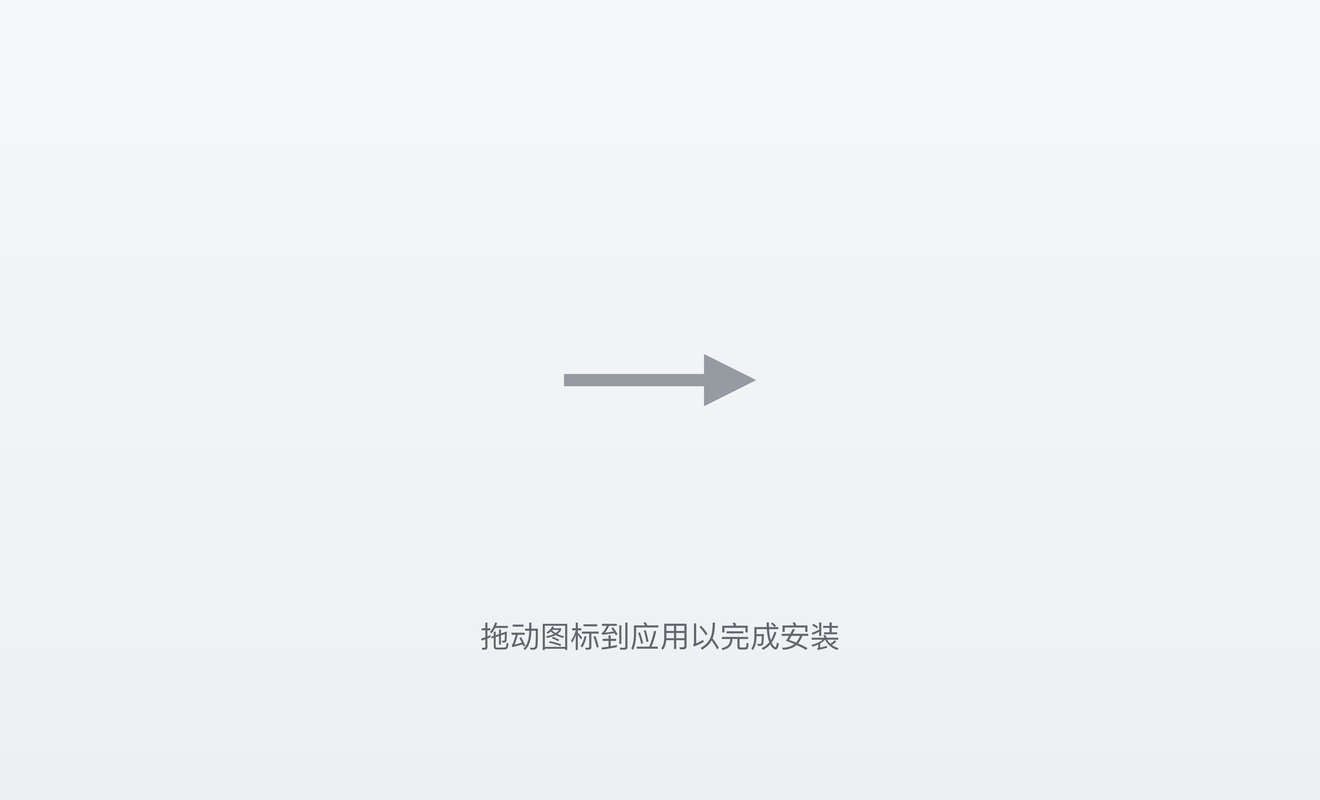
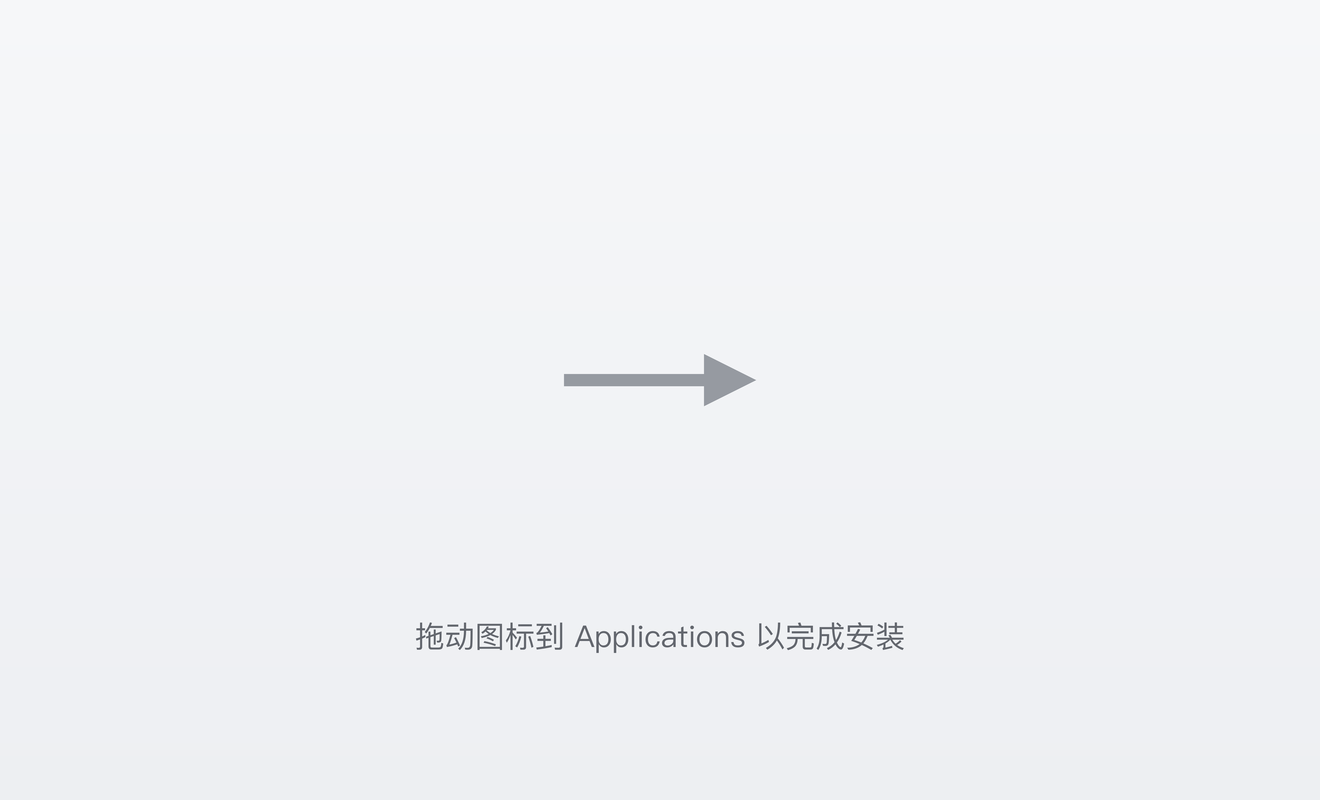
feat: 挂载卷直跑改硬阻断——弹「请先拖曳到 Applications」后退出；文案统一为 Applications
- main.cpp：/Volumes 挂载卷根（DMG 拖拽形态）或 /AppTranslocation 转位目录
  运行时弹提示后 return 0，不创建主窗口（Finder 双击无法拦截，进程起来后
  立即自断是应用侧最强阻断）；拆除 MainWindow 上一轮的软提示（提示后放行）
- MacInstallCheck 细化：挂载卷只拦 app 位于卷根的 DMG 形态，二级卷子目录
  （外置盘 Applications 文件夹）正经安装不误伤；test_macinstallcheck 补
  二级卷/卷路径两例（TDD：先 RED 再实现）
- 背景文案「拖动图标到应用以完成安装」→「拖动图标到 Applications 以完成
  安装」，与右侧替身图标的 Finder 显示名一致；重生成资产（文字重心 659/660）

Changed region(s): [[0.3106, 0.7812, 0.6833, 0.8125]]

diff --git a/src/ui/MainWindow.cpp b/src/ui/MainWindow.cpp
@@ -19,7 +19,6 @@
 #include "../core/DocxExporter.h"
 #include "../core/HtmlExporter.h"
 #include "../app/Application.h"
-#include "../app/MacInstallCheck.h"
 #include "../app/ThemeManager.h"
 #include "../app/SystemThemeWatcher.h"
 
@@ -41,8 +40,6 @@
 #include <QDropEvent>
 #include <QMimeData>
 #include <QKeySequence>
-#include <QTimer>
-#include <QSysInfo>
 
 // JS 单引号字符串字面量转义（路径等嵌入 runJavaScript；反斜杠/引号/换行——
 // Windows 路径 C:\Users\.. 的 \ 与含 ' 的 Unix 路径都会破坏字面量）
@@ -96,25 +93,6 @@ MainWindow::MainWindow(const QString &initialFile, QWidget *parent)
         onFileDoubleClicked(initialFile);
     } else {
         restoreSession();
-    }
-
-    // macOS：从 DMG 挂载卷/Gatekeeper 转位目录运行（未安装状态）——启动提示
-    // 拖入「应用程序」。硬阻断非 macOS 惯例，提示后仍可继续使用；但直接在
-    // 挂载卷内运行会让 Launch Services 登记多个副本（「打开方式」推荐列表
-    // 置灰的根因，见 CHANGELOG 0.16.1 升级提示）。运行时判 macOS 而非
-    // #ifdef：三平台都编译此段，避免留下只被 macOS CI 编译的死角
-    if (QSysInfo::productType() == QStringLiteral("macos")
-        && MacInstallCheck::isTransientLocation(QCoreApplication::applicationDirPath())) {
-        // singleShot(0)：等主窗口 show() 后再弹，对话框以可见窗口为锚居中
-        QTimer::singleShot(0, this, [this] {
-            QMessageBox box(QMessageBox::Information, tr("请先完成安装"),
-                tr("md-editor 正在从安装镜像（DMG）或临时目录运行，尚未安装到系统中。\n\n"
-                   "请将 md-editor 图标拖到「应用程序」文件夹完成安装，之后从「应用程序」启动；\n"
-                   "直接在镜像中运行会使系统登记多个应用副本，导致「打开方式」列表异常。"),
-                QMessageBox::Ok, this);
-            box.button(QMessageBox::Ok)->setText(tr("好"));
-            box.exec();
-        });
     }
 }
 

diff --git a/src/main.cpp b/src/main.cpp
@@ -1,9 +1,13 @@
 #include "app/Application.h"
+#include "app/MacInstallCheck.h"
 #include "ui/MainWindow.h"
 #include "core/LocalImageSchemeHandler.h"
 #include <QLocale>
 #include <QStringList>
 #include <QWebEngineProfile>
+#include <QAbstractButton>
+#include <QMessageBox>
+#include <QSysInfo>
 #include <QWebEngineUrlScheme>
 
 // 注册 localimg:// 自定义协议。
@@ -40,6 +44,22 @@ int main(int argc, char *argv[])
     const QStringList args = app.arguments();
     for (int i = 1; i < args.size(); ++i) {
         if (!args[i].startsWith(QLatin1Char('-'))) {
+    // macOS：从 DMG 挂载卷/Gatekeeper 转位目录运行——硬阻断，弹提示后退出，
+    // 不进主界面。在镜像内直跑会让 Launch Services 登记多个应用路径（「打开
+    // 方式」推荐列表置灰的根因，见 CHANGELOG 0.16.1）；Finder 双击本身无法
+    // 拦截（系统行为），应用进程起来后立即自断是应用侧能做到的最强阻断。
+    // 运行时判 macOS 而非 #ifdef：三平台都编译此段，不留只被 macOS CI 编译的死角
+    if (QSysInfo::productType() == QStringLiteral("macos")
+        && MacInstallCheck::isTransientLocation(QCoreApplication::applicationDirPath())) {
+        QMessageBox box(QMessageBox::Warning, QStringLiteral("无法直接运行"),
+            QStringLiteral("请先拖曳 md-editor 图标到 Applications 图标以完成安装。\n\n"
+                           "在安装镜像内直接运行会导致系统「打开方式」列表异常。"),
+            QMessageBox::Ok);
+        box.button(QMessageBox::Ok)->setText(QStringLiteral("退出"));
+        box.exec();
+        return 0;   // 不创建主窗口，应用随对话框关闭退出
+    }
+
             initialFile = args[i];
             break;
         }

diff --git a/src/app/MacInstallCheck.cpp b/src/app/MacInstallCheck.cpp
@@ -6,11 +6,24 @@ bool isTransientLocation(const QString &appDirPath)
 {
     if (appDirPath.isEmpty())
         return false;
-    // 挂载卷内运行 = DMG 未拖出（拖拽安装布局正是为杜绝此事）。
-    // 带 / 前缀整段匹配，/Volumesfoo 这类前缀撞名不算
-    if (appDirPath.startsWith(QStringLiteral("/Volumes/")))
-        return true;
-    // 转位目录固定名为 AppTranslocation，夹在路径段中，两侧 / 保证整段匹配
+    if (appDirPath.startsWith(QStringLiteral("/Volumes/"))) {
+        // 只拦「app 包位于挂载卷根」的 DMG 拖拽形态：
+        //   /Volumes/<卷名>/<bundle>.app/Contents/MacOS
+        // 装在二级卷子目录里的正经安装（/Volumes/<卷>/<目录>/…app/…，如外置盘
+        // 的 Applications 文件夹）不拦。带 / 前缀整段匹配，/Volumesfoo 不算
+        const QString rest = appDirPath.mid(QStringLiteral("/Volumes/").size());
+        const qsizetype volEnd = rest.indexOf(QLatin1Char('/'));
+        if (volEnd <= 0)
+            return false;   // 缺卷名或就是卷路径本身，不是 app
+        const QString tail = QStringLiteral("/Contents/MacOS");
+        const QString afterVol = rest.mid(volEnd + 1);
+        if (!afterVol.endsWith(tail))
+            return false;
+        return !afterVol.left(afterVol.size() - tail.size())
+                    .contains(QLatin1Char('/'));   // 卷名与 bundle 间无更深层级
+    }
+    // Gatekeeper 转位目录固定名为 AppTranslocation（从 Downloads 等处直跑时
+    // 系统把 app 复制到的随机只读路径），夹在路径段中，两侧 / 整段匹配
     return appDirPath.contains(QStringLiteral("/AppTranslocation/"));
 }
 

diff --git a/scripts/gen-dmg-background.py b/scripts/gen-dmg-background.py
@@ -10,7 +10,8 @@
     position 对齐；Finder position = 图标视觉中心，真机截图校准）
   - 箭头与图标中心线对齐（旧版箭头画在 h/2 而图标在 y=140，错位 60px），
     总宽 96px（旧版 188px 过大）
-  - 箭头下方一行中文提示「拖动图标到应用以完成安装」（PingFang SC）
+  - 箭头下方一行中文提示「拖动图标到 Applications 以完成安装」（PingFang SC；
+    右侧替身图标的 Finder 显示名即 Applications，文案与之一致）
 
 依赖: Pillow + 中文字体（按序探测 PingFang SC / Noto Sans CJK SC）。
 改设计后本地重跑生成 scripts/dmg-background.png 并提交，同步更新
@@ -27,7 +28,7 @@ SHAFT_X0, SHAFT_X1 = 564, 704   # 箭杆（70 逻辑长）
 SHAFT_HALF = 6            # 箭杆半厚（杆高 6 逻辑）
 HEAD_X0, HEAD_X1 = 704, 756     # 箭头三角形（26 逻辑长）
 HEAD_HALF = 26            # 三角形半高（26 逻辑）
-TEXT = "拖动图标到应用以完成安装"
+TEXT = "拖动图标到 Applications 以完成安装"
 TEXT_CENTER = (660, 636)  # 提示文字中心（318 逻辑；图标标签下缘 ~280 逻辑）
 TEXT_SIZE = 30            # 15 逻辑 pt
 SS = 4                    # 超采样倍数（PIL 多边形无原生抗锯齿）

diff --git a/src/app/MacInstallCheck.h b/src/app/MacInstallCheck.h
@@ -5,10 +5,11 @@
 // 纯路径判定，跨平台可测（Linux/Windows 路径恒 false）
 namespace MacInstallCheck {
 
-// app 可执行文件目录是否位于临时位置：
-//   /Volumes/…           —— DMG 挂载卷（未拖到「应用程序」就直跑）
-//   /AppTranslocation/…  —— Gatekeeper 转位目录（从 Downloads 等处直跑时
-//                          系统把 app 复制到的随机只读路径）
+// app 可执行文件目录是否位于临时位置（main.cpp 据此硬阻断运行）：
+//   /Volumes/<卷>/<bundle>.app/…  —— app 位于挂载卷根 = DMG 拖拽布局直跑
+//                                     （二级卷子目录里的正经安装不拦）
+//   /AppTranslocation/…            —— Gatekeeper 转位目录（从 Downloads 等
+//                                     处直跑时系统把 app 复制到的随机只读路径）
 // 两种位置运行的 app 都属「未安装」状态，且会在 Launch Services 登记
 // 多个副本（「打开方式」推荐列表置灰的根因，见 CHANGELOG 0.16.1）
 bool isTransientLocation(const QString &appDirPath);

diff --git a/tests/test_macinstallcheck.cpp b/tests/test_macinstallcheck.cpp
@@ -44,6 +44,11 @@ void TestMacInstallCheck::installedOrDevLocationsPass()
     QVERIFY(!isTransientLocation("C:\\Program Files\\md-editor\\md-editor.exe"));
     QVERIFY(!isTransientLocation("build/src"));   // 相对路径（开发构建）
     QVERIFY(!isTransientLocation(QString()));
+    // 挂载卷只拦「app 位于卷根」的 DMG 拖拽形态；装在二级卷子目录里的正经
+    // 安装（如外置盘的 Applications 文件夹）不拦
+    QVERIFY(!isTransientLocation(
+        "/Volumes/Data/Applications/md-editor.app/Contents/MacOS"));
+    QVERIFY(!isTransientLocation("/Volumes/Data"));   // 卷路径本身，不是 app
 }
 
 QTEST_APPLESS_MAIN(TestMacInstallCheck)

diff --git a/CHANGELOG.md b/CHANGELOG.md
@@ -10,8 +10,8 @@
 - **启动期切标签页的 JS 未捕获异常** — `onTabChanged` 的三连推送（notifyHeadings/Format/History）无 `window.editorApi` 守卫，页面脚本未执行完的窗口期触发（macOS 冷启动尤甚），且因同段执行连带跳过后两条推送；补守卫与相邻代码一致
 - **同路径文件重开不再开重复标签** — 双击/Finder 打开已打开的文件改为聚焦既有标签页（与 VS Code/Typora 等主流编辑器一致）：重复标签各自保存是后写者静默覆盖，未保存修改会静默丢失；未保存修改与外部重载警示原样保留。canonical 路径判定（相对路径/符号链接/冗余分隔符归一），新增 test_editorpath 回归
 - **macOS 元数据触碰误报「已被外部程序修改」** — Finder 再次双击已打开文件时，Gatekeeper/Spotlight 的元数据触碰（xattr/atime）也触发 fileChanged，内容未变却弹重载警告。外部变更报警前先核实 size+mtime 与监控基线一致与否（与 VS Code 同款判定），未变则静默吞掉；新增 testMetadataOnlyEventSuppressed 回归
-- **DMG 拖拽安装布局** — 安装窗口改为 app 图标（左）+ Applications 替身（右）+ 微渐变背景引导拖拽安装，杜绝用户直接在挂载卷内双击运行 app（Launch Services 僵尸注册的标准来源，见下方升级提示）；箭头收窄并与图标中心线对齐（首版 188px 且低于图标中心 60px，真机反馈「太大太丑」），箭头下方加中文提示「拖动图标到应用以完成安装」；背景改为 @2x 144dpi 静态资产（`scripts/dmg-background.png`，本地 PIL+苹方生成后提交——CI 无字体环境不现场生成），test_dmgbg 锁定资产设计要素
-- **从 DMG 挂载卷/转位目录运行时的启动提示** — 拖拽布局是引导，用户仍双击图标直跑时启动弹「请先完成安装」：提示拖入「应用程序」，并说明直跑会让 Launch Services 登记多个副本、致「打开方式」列表异常；提示后不阻断使用（硬拦截非 macOS 惯例）。路径判定 `MacInstallCheck::isTransientLocation`（/Volumes 挂载卷 + /AppTranslocation 转位目录），新增 test_macinstallcheck 回归
+- **DMG 拖拽安装布局** — 安装窗口改为 app 图标（左）+ Applications 替身（右）+ 微渐变背景引导拖拽安装；箭头收窄并与图标中心线对齐（首版 188px 且低于图标中心 60px，真机反馈「太大太丑」），箭头下方加中文提示「拖动图标到 Applications 以完成安装」（与替身图标名一致）；背景为 @2x 144dpi 静态资产（`scripts/dmg-background.png`，本地 PIL+苹方生成后提交——CI 无字体环境不现场生成），test_dmgbg 锁定资产设计要素
+- **挂载卷内直跑硬阻断** — 双击挂载卷里的 app 图标：弹「请先拖曳 md-editor 图标到 Applications 图标以完成安装」后直接退出，不进主界面（Finder 双击本身无法拦截，应用进程起来后立即自断是应用侧最强阻断）——在镜像内运行会让 Launch Services 登记多个应用路径（「打开方式」推荐列表置灰的根因，见下方升级提示）。路径判定 `MacInstallCheck::isTransientLocation`：app 位于挂载卷根（DMG 拖拽形态）或 Gatekeeper 转位目录（/AppTranslocation）才拦，二级卷子目录里的正经安装不误伤；新增 test_macinstallcheck 回归
 - 升级提示：从 ≤0.16.0 覆盖安装后，Launch Services 可能残留旧注册导致「打开方式」推荐列表仍灰——先清空废纸篓里的旧版本、推出旧 DMG 挂载卷（僵尸条目两大来源），再 `lsregister -f /Applications/md-editor.app`；仍不行用终极手段 `lsregister -kill -seed -lint -r -v && killall lsd` 重建 LS 库后重启（新装用户不受影响）
 
 ## [0.16.0] — 2026-09-15
